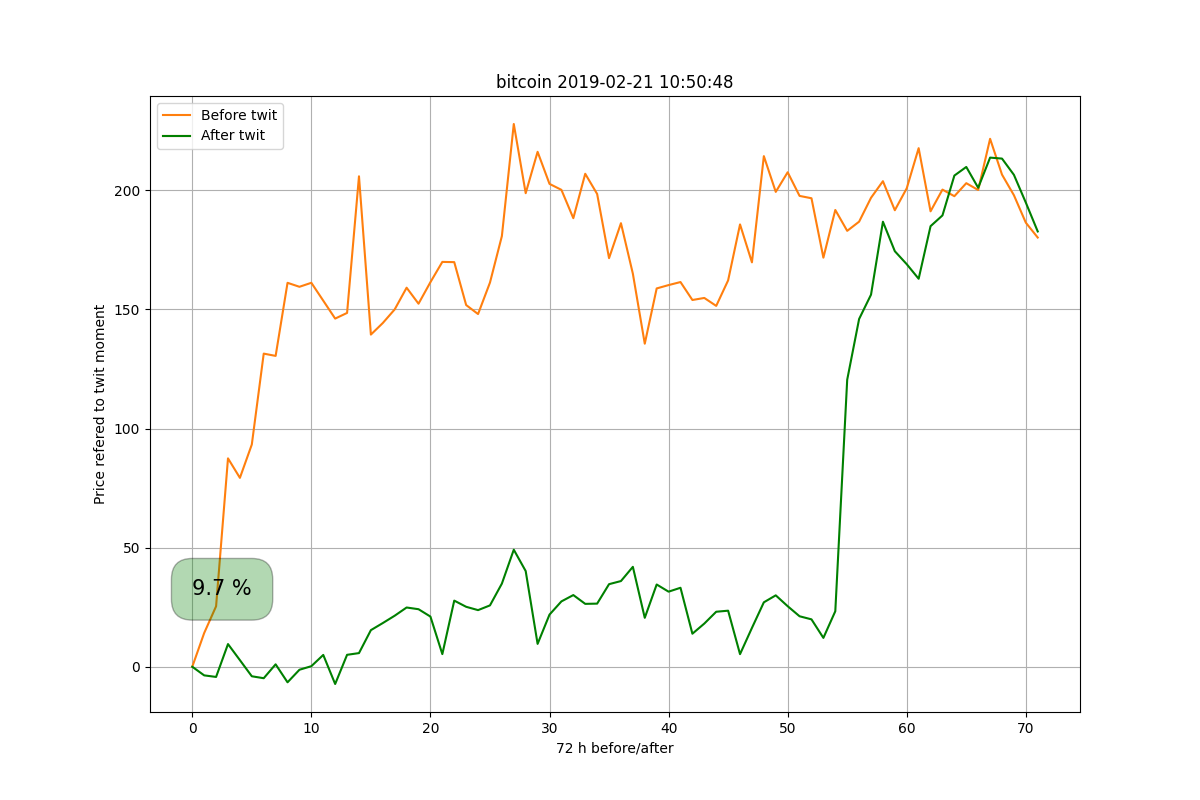
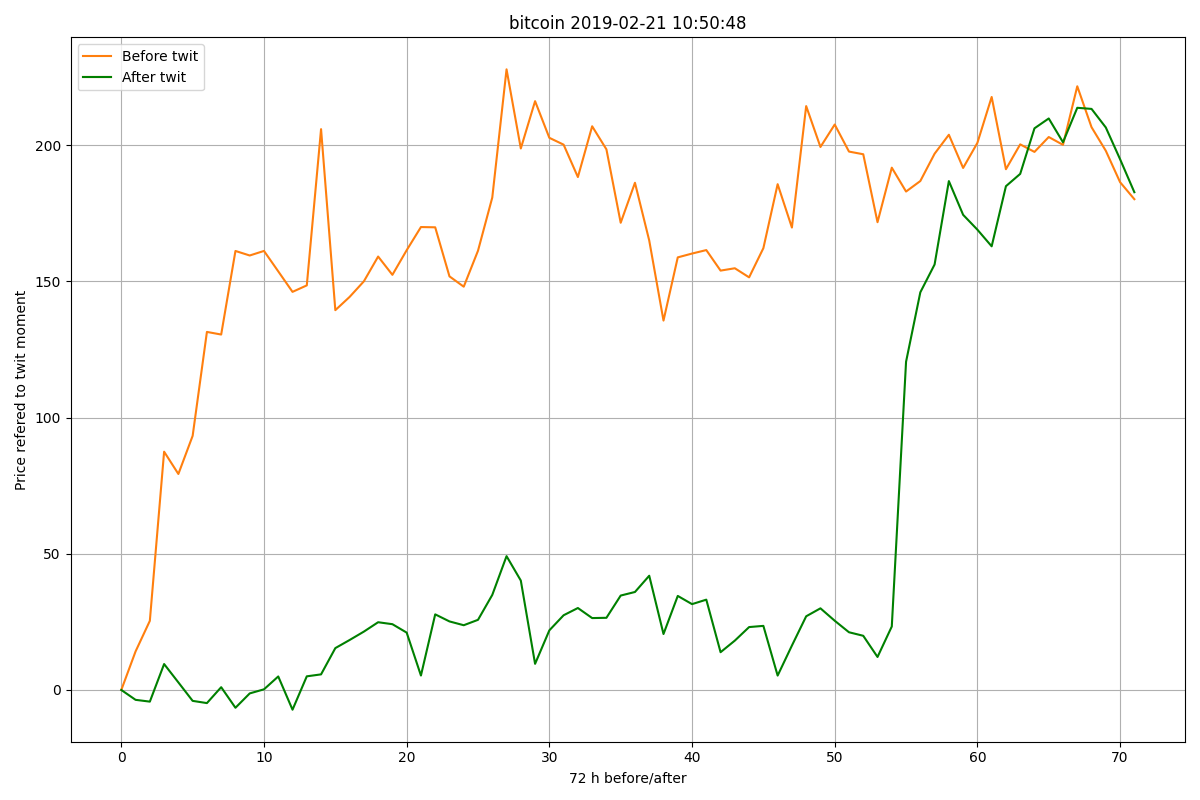
autolayout

diff --git a/libs/lib_visual.py b/libs/lib_visual.py
@@ -2,6 +2,7 @@
 import pandas as pd
 import matplotlib.pyplot as plt
 plt.rcParams.update({'figure.max_open_warning': 0})
+plt.rcParams.update({'figure.autolayout': True})
 
 def plot_currency(dict_, plt):
     """
@@ -40,7 +41,7 @@ def plot_percent(dict_, folder_):
                 plt.xlabel('Date - time of the twitter')
                 df.percent_higher.plot.bar()
                 plt.axhline(0, color="k")
-                ax.set_xticklabels(labels, rotation = 45)
+                ax.set_xticklabels(labels, rotation = 30)
                 plt.savefig(f"{folder_}Percent-above-{name}.png", transparent=False)
 
         
@@ -59,6 +60,5 @@ def visual_criptwit(dict_, folder_):
                 f, ax = plt.subplots(figsize=[12,8])
                 plt.title(f"{name} {df.DATE[i]}")
                 plot_currency(df.prices[i],plt)
-                plt.text(0, 30, f"{df.percent_higher[i]} %", color='black', bbox=dict(facecolor='green', alpha=0.3, edgecolor='black', boxstyle='round,pad=1'), fontsize=15)
                 plt.savefig(f"{folder_}{name}-{df.DATE[i].strip()}.png", transparent=False)
             

diff --git a/libs/lib_calc.py b/libs/lib_calc.py
@@ -29,6 +29,7 @@ def calculus(dict_):
     """
     for name, df  in dict_.items():
         if not df.empty: 
+            print(name)
             df['percent_higher']=df['prices']
             df.percent_higher=df.percent_higher.apply(calc_percent)
     return dict_
